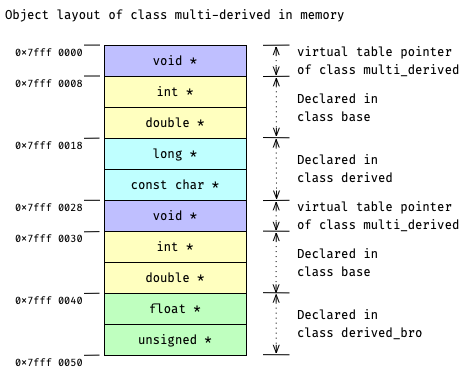
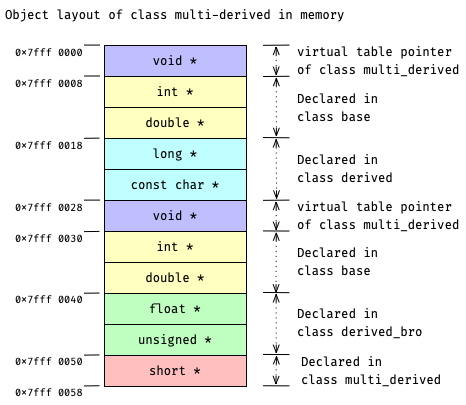
refactor: Add virtual table pictures for task Revisit-Multiple-Inheritance

diff --git a/Classes/Polymorphic/Revisit_Multiple_Inheritance_Memory_Layout/src/demo.cpp b/Classes/Polymorphic/Revisit_Multiple_Inheritance_Memory_Layout/src/demo.cpp
@@ -6,37 +6,33 @@ struct base {
     int *i {};
     double *d {};
 
-    virtual void foo() {
-        std::cout << "foo()" << std::endl;
-    }
+    virtual void foo() {}
 };
 
 struct derived : public base {
     long *l {};
     const char* s {};
+
+    void foo() override {}
+    virtual void tuu() {}
 };
 
 struct derived_bro : public base {
     float *f {nullptr};
     unsigned *u {nullptr};
+
+    virtual void gee() {}
 };
 
 DEMO_ANCHOR(memory_layout_multi_derived_with_vtable)
 struct multi_derived : public derived, public derived_bro {
     short *h {nullptr};
-    using derived::foo;
 
-    virtual void goo() {
-        std::cout << "goo()" << std::endl;
-    }
+    void tuu() override {}
+    void gee() override {}
+    virtual void haa() {}
 
-    virtual void hoo() {
-        std::cout << "hoo()" << std::endl;
-    }
-
-    void too() {
-        std::cout << "too()" << std::endl;
-    }
+    void non() {}
 };
 
 
@@ -49,27 +45,39 @@ DEMO(RevisitMultipleInheritanceMemoryLayout, MultiDerivedMemoryLayout) { // NOLI
 
     std::cout << "memory layout of class multi_derive: " << std::endl;
 
-    print_range_of_field("        base::i", ((derived *) p_obj)->i, start);
-    print_range_of_field("        base::d", ((derived *) p_obj)->d, start);
+    std::cout << "========================== p_vtable" << std::endl;
 
-    print_range_of_field("^^^^^^^^^^^^^^^^^^^^^derived#base part", *(base *) (derived *) p_obj, start);
+    print_range_of_field("         base::i", ((derived *) p_obj)->i, start);
+    print_range_of_field("         base::d", ((derived *) p_obj)->d, start);
 
-    print_range_of_field("     derived::l", p_obj->l, start);
-    print_range_of_field("     derived::s", p_obj->s, start);
+    print_range_of_field("^^^^^^^^^^^^^^^^^^^^^^derived#base part", *(base *) (derived *) p_obj, start);
 
-    print_range_of_field("^^^^^^^^^^^^^^^^^^^^^^^^^^derived part", *(derived *) p_obj, start);
+    print_range_of_field("      derived::l", p_obj->l, start);
+    print_range_of_field("      derived::s", p_obj->s, start);
 
-    print_range_of_field("        base::i", ((derived_bro *) p_obj)->i, start);
-    print_range_of_field("        base::d", ((derived_bro *) p_obj)->d, start);
+    print_range_of_field("^^^^^^^^^^^^^^^^^^^^^^^^^^^derived part", *(derived *) p_obj, start);
 
-    print_range_of_field("^^^^^^^^^^^^^^^^^derived_bro#base part", *(base *) (derived_bro *) p_obj, start);
+    std::cout << "========================== p_vtable" << std::endl;
 
-    print_range_of_field(" derived_bro::f", p_obj->f, start);
-    print_range_of_field(" derived_bro::u", p_obj->u, start);
+    print_range_of_field("         base::i", ((derived_bro *) p_obj)->i, start);
+    print_range_of_field("         base::d", ((derived_bro *) p_obj)->d, start);
 
-    print_range_of_field("^^^^^^^^^^^^^^^^^^^^^^derived_bro part", *(derived_bro *) p_obj, start);
+    print_range_of_field("^^^^^^^^^^^^^^^^^^derived_bro#base part", *(base *) (derived_bro *) p_obj, start);
 
-    print_range_of_field("^^^^^^^^^^^^^^^^^^^^multi_derived part", *p_obj, start);
+    print_range_of_field("  derived_bro::f", p_obj->f, start);
+    print_range_of_field("  derived_bro::u", p_obj->u, start);
+
+    print_range_of_field("^^^^^^^^^^^^^^^^^^^^^^^derived_bro part", *(derived_bro *) p_obj, start);
+
+    print_range_of_field("multi_derived::h", p_obj->h, start);
+
+    print_range_of_field("^^^^^^^^^^^^^^^^^^^^^multi_derived part", *p_obj, start);
+
+    p_obj->gee();
+    p_obj->haa();
+    p_obj->non();
+
+    auto *p_bro = new derived_bro();
 
     delete p_obj;
 

diff --git a/Classes/Polymorphic/Revisit_Multiple_Inheritance_Memory_Layout/task.md b/Classes/Polymorphic/Revisit_Multiple_Inheritance_Memory_Layout/task.md
@@ -1,7 +1,7 @@
 # Revisit Memory Layout in Multiple Inheritance
 
 与 single inheritance 的情况类似:
-在 multiple inheritance 情况下, 当 base class 拥有 `virtual` member function 时, derived object 的 memory layout 会因为 virtual table 而有轻微变化:
+在 multiple inheritance 情况下, 当拥有 `virtual` table 时, derived object 的 memory layout 会因为 virtual table 而有轻微变化:
 - 整体 object layout 会往高地址方向移位 8 个字节 (64-bit 系统下);
 - 空出来的这 8 个字节存储着指向 object's virtual table 的 pointer.
 
@@ -9,9 +9,9 @@
 [task Memory Layout in Multiple Inheritance](course://Classes/Inheritance/Multiple_Inheritance_Memory_Layout)
 里的例子, 只不过这次为 base `class base`
 [(*here*)](psi_element://__only_for_anchor_used__memory_layout_multi_base_with_vtable)
-和其中一个 derived `class multi_derived`
+和 derived `class derived, class derived_bro, class multi_derived`
 [(*here*)](psi_element://__only_for_anchor_used__memory_layout_multi_derived_with_vtable)
-添加 virtual member function.
+添加了 virtual member functions.
 四者之间的 inheritance 关系依旧, 如下所示:
 ```c++
 class base;
@@ -20,18 +20,16 @@ class derived_bro : public base;
 class multi_derived : public derived, public derived_bro;
 ```
 
+## Memory Layout of Multiple Derived Class
+
 此时, `class multi_derived`
 [(*here*)](psi_element://__only_for_anchor_used__memory_layout_multi_derived_with_vtable)
 的 memory layout 将如下:
 
 ![Object Layout of class derived with vtable](pics/multi_derived_vtable.png)
 
-由上可知, 即使是在 multiple inheritance 的情况下, multiple derived memory layout 仍然只是两个 base classes 的 memory layout 的拼接.
-此时, multiple derived object 内将有两个 virtual table pointers:
-- 第一个 virtual table pointer 指向 `class multi_derived` 的 virtual table;
-  在 base type (`class derived`) 的 pointer 或其自身 type (`class multi_derived`) 的 pointer 指向 multiple derived object 时起作用;
-- 第二个 virtual table pointer 指向 `class derived_bro` 的 virtual table;
-  在 base type (`class derived_bro`) 的 pointer 指向 multiple derived object 时起作用
+由上可知, multiple derived memory layout 是由其 base classes 的 memory layouts 按照 inheritance 的顺序拼接而成, 
+最后在 layout 的末尾追加新添的 member variables.
 
 ### Run the Demo
 
@@ -39,3 +37,52 @@ class multi_derived : public derived, public derived_bro;
 [demo for class multi_derive](psi_element://RevisitMultipleInheritanceMemoryLayout_MultiDerivedMemoryLayout_Test)
 它会直接打印 `class multi_derive` 的 memory layout 到 console.
 请观察代码与输出的 memory layout, 并尝试与上面的示意图一一对应~
+
+## Virtual Tables of Multiple Derived Class
+
+如下图所示, multiple derived object 内会有两个 virtual table pointers (图中<span style="background: #bfbfff; color: black"> 紫色 </span>的区域):
+
+![Virtual Tables of class derived with vtable](pics/multi_derived_vtable_link.png)
+
+这两个 virtual tables 分别是从对应 base class 的 virtual table 派生而来.
+每个 virtual table 的构建方式与 
+[task Virtual Table](course://Classes/Polymorphic/Virtual_Table) 里介绍的基本一致, 即 1) *copy*, 2) *override*, 3) *extend*.
+唯一的区别是:
+- *extend* 只发生在第一个 virtual table 的构建过程中, 剩下的 virtual tables 都只有 *copy* 和 *override* 这两个步骤;
+
+由于 multi_derived class 有不止一个 base classes, 在 *extend* 第一个 virtual table 时, 追加的 member functions:
+  - 包括还未添加的 override member functions (如 `gee()` );
+  - 包括只在当前 class (`class multi_derived`) 里 defined 的 member functions (如 `haa()` )
+
+## Non-Virtual Thunk to Member Function
+
+### 什么是 thunk?
+
+> A thunk usually refers to a small piece of code that is called as a function, does some small thing,
+> and then JUMPs to another location (usually a function) instead of returning to its caller. Assuming
+> the JUMP target is a normal function, when it returns, it will return to the thunk's caller.
+> -- by [Chris Dodd on stackoverflow.com](https://stackoverflow.com/a/2641975/11192045)
+
+按我的理解, 翻译如下: 
+thunk 通常是一小段没有 return 的代码, 可以像正常 function 一样被调用. 
+它在做一些简单的操作后, 会直接 jump 到另外一个位置继续执行.
+若 jump 至一个 function, 那么当这个 function returns 时, 会直接 return 到调用 thunk 的地方.
+
+更简单地说, thunk 用于包装一个 function, 它先执行一小段给定的代码, 再执行目标 function.
+这个 function 可以仅仅是一个 jump 指令.
+
+### Thunk 在 C++ 里的作用是什么?
+
+> virtual function handling -- when calling a virtual function of a multiply-inherited base class 
+> in C++, there needs to be a fix-up of the this pointer to get it to point to the right place. 
+> A thunk can do this.
+> -- by [Chris Dodd on stackoverflow.com](https://stackoverflow.com/a/2641975/11192045)
+
+翻译过来就是说: 在 multiple-inherited 的情况下, 需要先修复 base pointer 的位置, 然后才能正确地访问它的 virtual member function.
+
+为什么要修复 base pointer 呢?
+承接上例, 当将一个 derived pointer (of type `multi_derived *`) 向上转换成 base pointer (of type `derived_bro *`) 时, pointer 会向高地址偏移至 derived_bro part 的起始处.
+修复 base pointer, 就是让偏移的 base pointer 重新指向原始的地址.
+只有这样, virtual member function 才可正确地解析 object memory layout.
+
+而 virtual table #2 中的 `multi_derived::gee()` 就是这样一个 thunk: a non-virtual thunk to member function `multi_derived::gee()`. 
